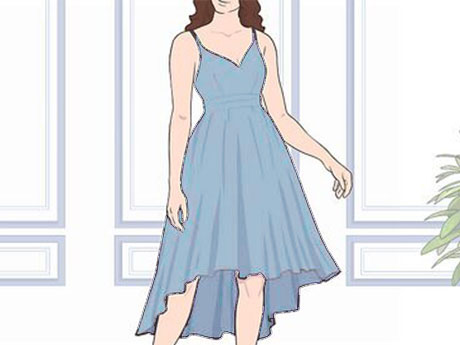
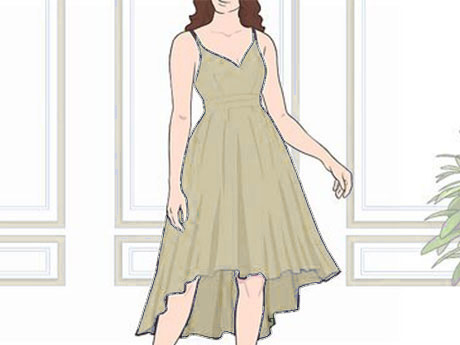
Updates by client

diff --git a/index.html b/index.html
@@ -86,11 +86,12 @@
           Please RSVP by <strong data-bind="event.rsvpDeadlineDisplay">[RSVP Deadline]</strong> so a place can be
           reserved for you.
         </p>
-        <hr>
-        <iframe width="100%" height="500px" src="https://www.youtube.com/embed/y2Lg-RF_Ng0?si=S9Qr-EiqG0N8fwOp" title="YouTube video player" frameborder="0" allow="accelerometer; autoplay; clipboard-write; encrypted-media; gyroscope; picture-in-picture; web-share" referrerpolicy="strict-origin-when-cross-origin" allowfullscreen></iframe>
       </div>
-
     </section>
+    <section class="section section--alt reveal">
+    <div><iframe width="100%" src="https://www.youtube.com/embed/y2Lg-RF_Ng0?si=S9Qr-EiqG0N8fwOp" title="Into a new dawn | Chrizle at 18" frameborder="0" allow="accelerometer; autoplay; clipboard-write; encrypted-media; gyroscope; picture-in-picture; web-share" referrerpolicy="strict-origin-when-cross-origin" allowfullscreen style="aspect-ratio: 16/9;"></iframe></div>
+    </section>
+        
 
     <!-- EVENT DETAILS -->
     <section class="section section--alt reveal" id="details">
@@ -203,14 +204,21 @@
             <p>Polo and light trousers, or a summer suit in champagne, sage green, midnight, and navy blue. Loafers or boat shoes.</p>
           </div>
         </div>
-        <div class="text-center" style="margin-top: var(--space-3);">
-          <p>Strictly, No jeans.</p>
-          <hr/>
+        <div class="text-center" style="margin: var(--space-3);">
+          <h3>Please Note:</h3>
+          <p><strong>Jeans are strictly not allowed.</strong> We kindly ask everyone to follow the suggested attire to help maintain the elegance and theme of the celebration.</p>
+           <br><hr/>
+         
+          </div>
+          <div class="text-center" style="margin-top: var(--space-3);">
           <p class="section-eyebrow" style="margin-bottom: var(--space-1);">The Colors</p>
           <div class="palette-swatches" style="justify-content: center;">
-            <span style="background:#2a9bc4;"></span>
-            <span style="background:#d81a72;"></span>
-            <span style="background:#ffcb3d;"></span>
+            <span style="background:#d4cfbc;"></span>
+            <span style="background:#83ae92;"></span>
+            <span style="background:#233452;"></span>
+            <span style="background:#39547f;"></span>
+            <span style="background:#e9c98c;"></span>
+            <span style="background:#c8899a;"></span>
           </div>
         </div>
       </div>
@@ -220,16 +228,11 @@
     <section class="section section--alt reveal">
       <div class="container text-center">
         <span class="section-eyebrow">A Note on Gifts</span>
-        <h2 class="section-title">Thank You, Kindly</h2>
+        <h2 class="section-title">In lieu of traditional gifts, a contribution to my educational fund would be greatly appreciated.</h2>
         <p class="section-lede mx-auto">
-          Your presence at my debut is the greatest gift I could ask for. If you'd like to
-          contribute further to the celebration, details are below — but your presence alone
-          is truly appreciated.
+          Your presence at my debut is the greatest gift I could ask for. While I genuinely appreciate any thoughtful material gifts, I would be especially grateful for a monetary contribution to help us with my educational expenses.
         </p>
-        <div class="gift-actions">
-          <a href="#" class="btn btn--outline">Gift Registry</a>
-          <a href="#" class="btn btn--outline">Monetary Gift</a>
-        </div>
+       
       </div>
     </section>
 
@@ -263,136 +266,108 @@
         </div>
         <div class="honor-tabs" id="honorTabs" role="tablist">
           <button class="is-active" data-target="roses" type="button">18 Roses</button>
-          <button data-target="candles" type="button">18 Candles</button>
-          <button data-target="treasures" type="button">18 Treasures</button>
-          <button data-target="gifts" type="button">18 Gifts</button>
+          <button data-target="candles" type="button">18 Candles & Wishes</button>
+          <button data-target="treasures" type="button">18 Bills</button>
+          <button data-target="gifts" type="button">18 Symbolic Gifts</button>
         </div>
         <div class="honor-panel is-active" data-panel="roses">
           <ul class="honor-list">
-            <li>Full Name</li>
-            <li>Full Name</li>
-            <li>Full Name</li>
-            <li>Full Name</li>
-            <li>Full Name</li>
-            <li>Full Name</li>
-            <li>Full Name</li>
-            <li>Full Name</li>
-            <li>Full Name</li>
-            <li>Full Name</li>
-            <li>Full Name</li>
-            <li>Full Name</li>
-            <li>Full Name</li>
-            <li>Full Name</li>
-            <li>Full Name</li>
-            <li>Full Name</li>
-            <li>Full Name</li>
-            <li>Full Name</li>
+            <li>DADDY JOEL DIONISIO</li>
+            <li>JAIDEN OPINIANO</li>
+            <li>STEVEN SERRANO</li>
+            <li>VENIZIO MANDA</li>
+            <li>DWIGHT ANDRADE</li>
+            <li>CHARLIE SERRATO</li>
+            <li>ADRIANE RAGUDO</li>
+            <li>BRYAN BISENIO</li>
+            <li>BRENNAN BUENVIAJE</li>
+            <li>SAMUEL GARCIA</li>
+            <li>TITO SAM LEONCIO</li>
+            <li>TITO ARVIN PACIFICO</li>
+            <li>SIR FRED MENDOZA</li>
+            <li>SIR TROI MESA</li>
+            <li>NINONG RONEL DIONISIO</li>
+            <li>TATAY CIRILO DIONISIO</li>
+            <li>KUYA JHIMUEL DIONISIO</li>
+            <li>TATANG EDGE VOCALAN</li>
           </ul>
         </div>
         <div class="honor-panel" data-panel="candles">
           <ul class="honor-list">
-            <li>Full Name</li>
-            <li>Full Name</li>
-            <li>Full Name</li>
-            <li>Full Name</li>
-            <li>Full Name</li>
-            <li>Full Name</li>
-            <li>Full Name</li>
-            <li>Full Name</li>
-            <li>Full Name</li>
-            <li>Full Name</li>
-            <li>Full Name</li>
-            <li>Full Name</li>
-            <li>Full Name</li>
-            <li>Full Name</li>
-            <li>Full Name</li>
-            <li>Full Name</li>
-            <li>Full Name</li>
-            <li>Full Name</li>
+            <li>KATHLEEN MOZAR</li>
+            <li>MICA GARCIA</li>
+            <li>CHARLENE CRUZ</li>
+            <li>KIRSTEI HERMOSO</li>
+            <li>LOIZE ENRIQUEZ</li>
+            <li>GWYNETH DELA CRUZ</li>
+            <li>ANDREA CASTANEDA</li>
+            <li>ASHLEY CHAPMAN</li>
+            <li>TITA JAH LEONCIO</li>
+            <li>MS. ABBY CABAGUA</li>
+            <li>MS. PAULINE GERO</li>
+            <li>NINANG JULIET ZUNIGA</li>
+            <li>TITA BHEX PACIFICO</li>
+            <li>ATE ICON REYES</li>
+            <li>DITCHE IEAN REYES</li>
+            <li>TITA CHRISTIAN REYES</li>
+            <li>MAMA DITAS VOCALAN</li>
+MOMMY CHRISTINE DIONISIO
           </ul>
         </div>
         <div class="honor-panel" data-panel="treasures">
           <ul class="honor-list">
-            <li>Full Name</li>
-            <li>Full Name</li>
-            <li>Full Name</li>
-            <li>Full Name</li>
-            <li>Full Name</li>
-            <li>Full Name</li>
-            <li>Full Name</li>
-            <li>Full Name</li>
-            <li>Full Name</li>
-            <li>Full Name</li>
-            <li>Full Name</li>
-            <li>Full Name</li>
-            <li>Full Name</li>
-            <li>Full Name</li>
-            <li>Full Name</li>
-            <li>Full Name</li>
-            <li>Full Name</li>
-            <li>Full Name</li>
+            <li>TITA ADETTE VOCALAN</li>
+            <li>MAMI PEEN VALLESTERO</li>
+            <li>TITA GINA CELEDINA</li>
+            <li>TITA IRIC BINO</li>
+            <li>ATE ANGELU DIONISIO</li>
+            <li>ATE ELIZ DIONISIO</li>
+            <li>ATE DANG TOLENTINO</li>
+            <li>TITA CRISTY LIMJOCO</li>
+            <li>TITA LALLY DUENAS</li>
+            <li>TITA LORNS JOSUE</li>
+            <li>LOLA TESS ZOLETA</li>
+            <li>LOLA GALENG DULLIN</li>
+            <li>LOLA ELSA DURAN</li>
+            <li>LOLA LILY MARTINEZ</li>
+            <li>LOLA DELIA ALCORIZA</li>
+            <li>CHA IBANG DELOS SANTOS</li>
+            <li>NANAY MILA DIONISIO</li>
+            <li>NANAY LITA REYES</li>
           </ul>
         </div>
         <div class="honor-panel" data-panel="gifts">
           <ul class="honor-list">
-            <li>Full Name</li>
-            <li>Full Name</li>
-            <li>Full Name</li>
-            <li>Full Name</li>
-            <li>Full Name</li>
-            <li>Full Name</li>
-            <li>Full Name</li>
-            <li>Full Name</li>
-            <li>Full Name</li>
-            <li>Full Name</li>
-            <li>Full Name</li>
-            <li>Full Name</li>
-            <li>Full Name</li>
-            <li>Full Name</li>
-            <li>Full Name</li>
-            <li>Full Name</li>
-            <li>Full Name</li>
-            <li>Full Name</li>
+            <li>XAO PAGKALIWAGAN</li>
+            <li>CHLOE ALONTAGA</li>
+            <li>AIRA SALAS</li>
+            <li>DHANAYE BUNO</li>
+            <li>ZHOEY JACOBO</li>
+            <li>ADI GALVEZ</li>
+            <li>ERMCIA PALMARES</li>
+            <li>AERIANE RAGUDO</li>
+            <li>SOPHIA NUGUID</li>
+            <li>JOANA ALBA</li>
+            <li>SASHA VILLANUEVA</li>
+            <li>MARITONI DE LEON</li>
+            <li>MARIANNA FRANCISCO</li>
+            <li>MAYUMI BARTOLOME</li>
+            <li>NAOMI DE GUZMAN</li>
+            <li>SHILOH FARINAS</li>
+            <li>ANGELA PO</li>
+            <li>ATE ALTHEA PACIFICO</li>
           </ul>
         </div>
       </div>
     </section>
 
-    <!-- FAQ -->
-    <section class="section reveal" id="faq">
-      <div class="container">
-        <div class="text-center" style="margin-bottom: var(--space-4);">
-          <span class="section-eyebrow">Good to Know</span>
-          <h2 class="section-title">FAQ</h2>
-        </div>
-
-        <details class="faq-item">
-          <summary>When and where is the debut taking place?</summary>
-          <p>The celebration will be held on <span data-bind="event.dateDisplayLong">[date]</span> at <span
-              data-bind="event.venueName">[venue]</span>, located at <span
-              data-bind="event.venueAddress">[address]</span>.</p>
-        </details>
-        <details class="faq-item">
-          <summary>What is the dress code?</summary>
-          <p>Bright and breezy, in keeping with our azure, magenta &amp; yellow theme. See the Attire Guide above for
-            details.</p>
-        </details>
-      
-        <details class="faq-item">
-          <summary>When is the RSVP deadline?</summary>
-          <p>Please RSVP by <span data-bind="event.rsvpDeadlineDisplay">[date]</span> so we can get an accurate
-            headcount.</p>
-        </details>
-      </div>
-    </section>
-
     <!-- RSVP -->
-    <section class="section section--alt reveal" id="rsvp">
+    <section class="section reveal" id="rsvp">
       <div class="container">
         <div class="text-center" style="margin-bottom: var(--space-2);">
           <span class="section-eyebrow">Kindly Respond</span>
           <h2 class="section-title">RSVP</h2>
-          <p class="section-lede mx-auto">We'd love to see you there — please respond by <strong
+          <p class="section-lede mx-auto">We'd love to see you there, please respond by <br><strong
               data-bind="event.rsvpDeadlineDisplay">[RSVP Deadline]</strong>.</p>
         </div>
 
@@ -417,7 +392,7 @@
             </div>
           </div>
 
-          <div class="field">
+         <!-- <div class="field">
             <label for="guestCount">Number of Guests (including you)</label>
             <select id="guestCount" name="guestCount">
               <option value="1">1</option>
@@ -425,7 +400,7 @@
               <option value="3">3</option>
               <option value="4">4</option>
             </select>
-          </div>
+          </div>-->
 
           <div class="field">
             <label for="guestMessage">Message (optional)</label>
@@ -439,7 +414,7 @@
     </section>
 
     <!-- TABLE FINDER TEASER -->
-    <section class="section reveal">
+    <!--<section class="section reveal">
       <div class="container">
         <div class="table-teaser">
           <svg viewBox="0 0 24 24" fill="none" stroke="currentColor" stroke-width="1">
@@ -452,13 +427,13 @@
           <a href="table.html" class="btn btn--primary">Find My Table</a>
         </div>
       </div>
-    </section>
+    </section>-->
 
     <!-- SNAP & SHARE -->
     <section class="section section--alt reveal">
       <div class="container text-center">
         <span class="section-eyebrow">Snap &amp; Share</span>
-        <p class="site-footer__hashtag">#<span data-bind="event.hashtag">YourHashtagAt18</span></p>
+        <p class="site-footer__hashtag">#CHIquititaTurns18 #CHIsFinally18</p>
         <p class="section-lede mx-auto">Capture the memories and share them with us using the hashtag above.</p>
       </div>
     </section>

diff --git a/css/style.css b/css/style.css
@@ -554,7 +554,7 @@ p { margin: 0; }
   flex-wrap: wrap;
 }
 .palette-swatches span {
-  width: 40px; height: 40px;
+  width: 80px; height: 80px;
   border-radius: 50%;
   border: 1.5px solid var(--hairline);
   box-shadow: 0 2px 6px rgba(20, 100, 133, 0.12);
